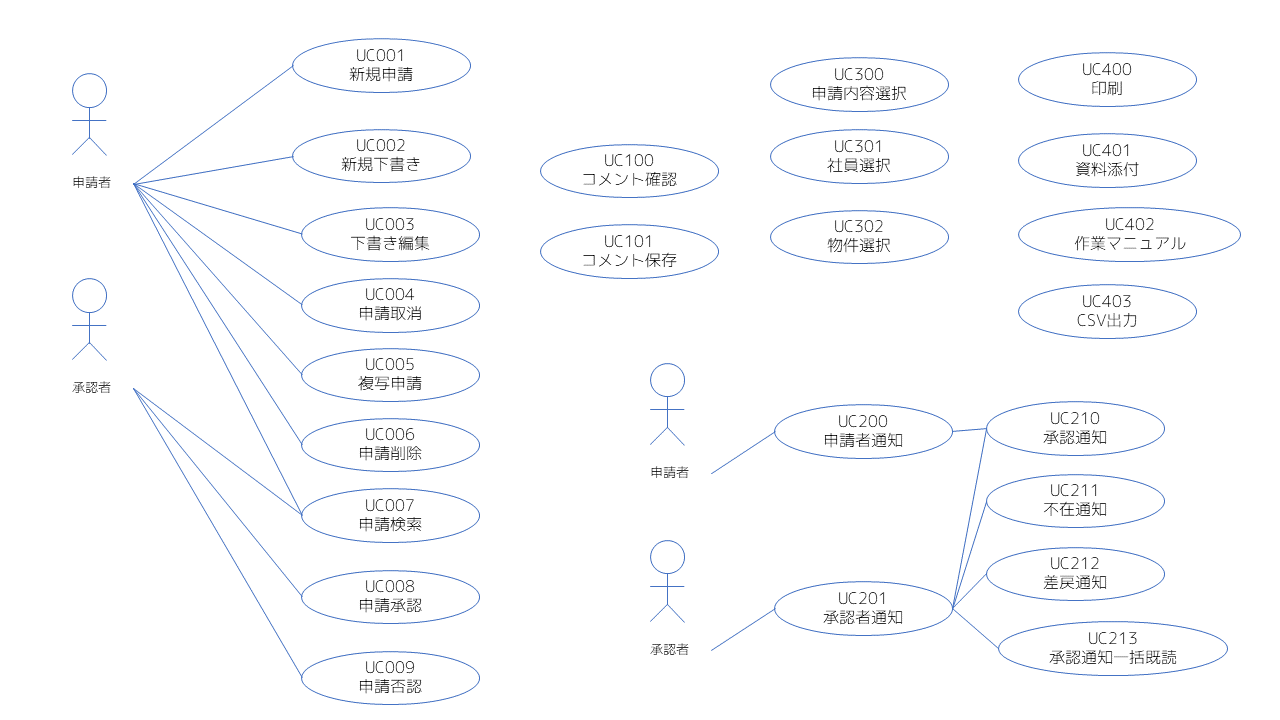
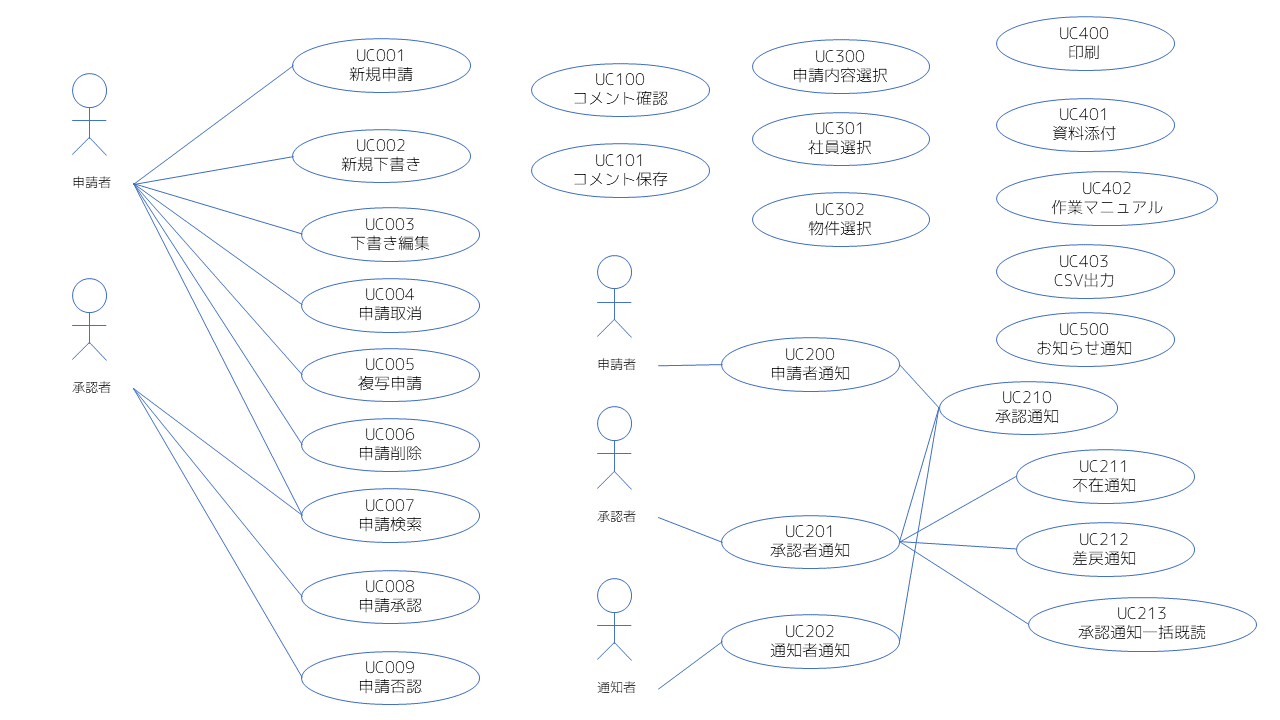
ユースケース作成中

diff --git a/docs/設計資料/01_画面/ユースケース.md b/docs/設計資料/01_画面/ユースケース.md
@@ -4,12 +4,23 @@
 
 - [UC001 新規下書き](シナリオ_UC001新規下書き.md)
 - [UC002 新規申請](シナリオ_UC002新規申請.md)
-- UC003 下書き編集
+- [UC003 下書き編集](シナリオ_UC004下書き編集.md)
 - UC004 申請取消
 - UC005 複写申請
 - UC006 申請削除
 - [UC007 申請検索](シナリオ_UC007申請検索.md)
 - UC008 申請承認
 - UC009 申請否認
-- UC100 コメント確認
-- [UC101 コメント保存](シナリオ_UC100コメント確認.md)
+- [UC100 コメント確認](シナリオ_UC100コメント確認.md)
+- UC101 コメント保存
+- UC200 申請者通知
+- UC201 承認者通知
+- UC202 通知者通知
+- UC300 申請内容選択
+- UC301 社員選択
+- UC302 物件選択
+- UC400 印刷
+- UC401 資料添付
+- UC402 作業マニュアル
+- UC403 CSV出力
+- UC500 お知らせ通知

diff --git a/docs/設計資料/01_画面/シナリオ_UC100コメント確認.md b/docs/設計資料/01_画面/シナリオ_UC100コメント確認.md
@@ -10,11 +10,17 @@
 
 ### フロー
 
-1. 申請者または承認者は常時表示されるMoreボタンからコメントを選択する。
+1. 申請者または承認者はシステムにコメント履歴の表示を指示する。
 1. システムは該当申請に対するコメント入力欄と保存ボタンを表示する。
-1. システムは該当申請に対するコメント一覧を表示する。
+1. システムは該当申請に対するコメント履歴を表示する。
 
 # 代替フロー
+
+### 代替フロー 1-1 新規申請の場合
+
+1. コメント履歴表示状態とする。
+1. 保存ボタンは非表示とする。
+    - 申請詳細の申請もしくは下書きの指示でコメントを保存するため
 
 ### 代替フロー 6-1 コメントが0件の場合
 

diff --git a/docs/500_技術トピックス.md b/docs/500_技術トピックス.md
@@ -13,3 +13,7 @@ this.$api.approval.getApprovals('1')
 
 - created：インスタンス初期化時、DOMが生成される前
 - mounted：インスタンス初期化時、DOMが生成された後
+
+# export defaultとは
+
+classやfunctionにこれを書くことで他のファイルから呼び出すことができる。

diff --git a/docs/設計資料/01_画面/010_画面一覧.md b/docs/設計資料/01_画面/010_画面一覧.md
@@ -1,6 +1,6 @@
 # 画面遷移図
 
-![](010_画面遷移.png)
+![](010_1_画面遷移.png)
 
 # 画面一覧
 
